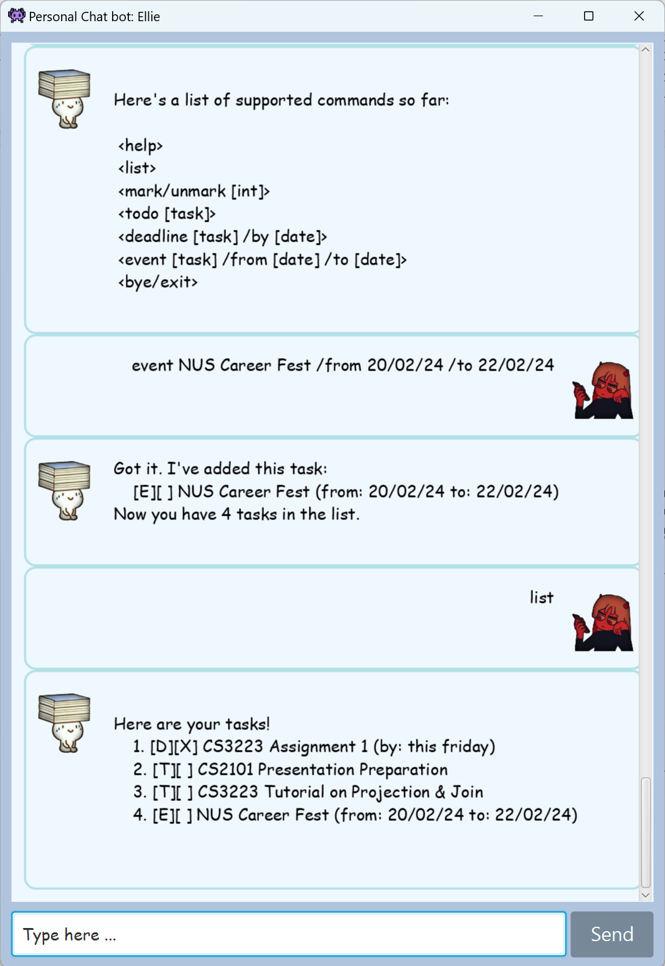
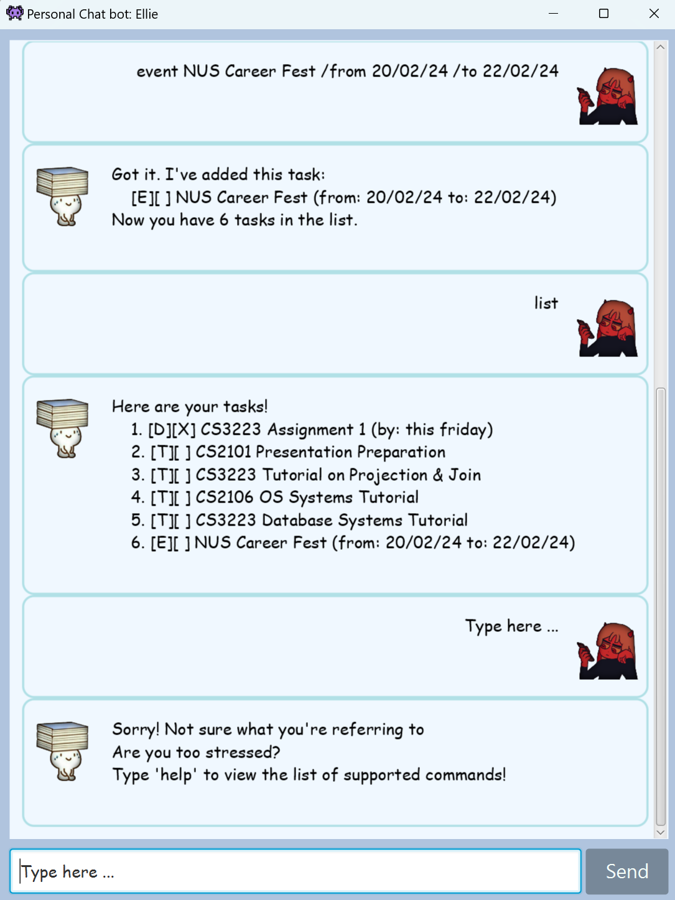
Add cosmetic changes

Changed region(s): [[0.0, 0.0, 1.0, 1.0]]

diff --git a/src/main/java/ellie/TaskList.java b/src/main/java/ellie/TaskList.java
@@ -85,7 +85,7 @@ public class TaskList {
     public String listTasks() {
         String noTasksResponse = "No items in list!" + NEW_LINE;
 
-        String response = NEW_LINE;
+        String response = "";
 
         if (taskArrayList.isEmpty()) {
             response += noTasksResponse;
@@ -120,7 +120,7 @@ public class TaskList {
         final String invalidIndexResponse = "Sorry!" + NEW_LINE
                                             + "There doesn't seem to be enough tasks for there to be a task "
                                                 + index + "!" + NEW_LINE;
-        String response = NEW_LINE;
+        String response = "";
 
         if (index > taskArrayList.size()) {
             response += invalidIndexResponse;
@@ -143,7 +143,7 @@ public class TaskList {
      * @param index The index of the task to be unmarked as done.
      */
     public String unmarkTaskIndex(int index) {
-        String response = NEW_LINE;
+        String response = "";
 
         if (index > taskArrayList.size()) {
             response += "Sorry!" + NEW_LINE
@@ -167,7 +167,7 @@ public class TaskList {
      * @param index The index of the task to be deleted.
      */
     public String deleteTaskIndex(int index) {
-        String response = NEW_LINE;
+        String response = "";
 
         if (index > taskArrayList.size()) {
             response += "Sorry!" + NEW_LINE

diff --git a/src/main/java/ellie/command/HelpCommand.java b/src/main/java/ellie/command/HelpCommand.java
@@ -23,7 +23,7 @@ public class HelpCommand extends Command {
      * @param tasklist The TaskList to be operated on by the command.
      */
     public String runAndReturnResponse(TaskList tasklist) {
-        String response = NEW_LINE;
+        String response = "";
         response += "Here's a list of supported commands so far: " + NEW_LINE + NEW_LINE
                 + " <help>" + NEW_LINE
                 + " <list>" + NEW_LINE
